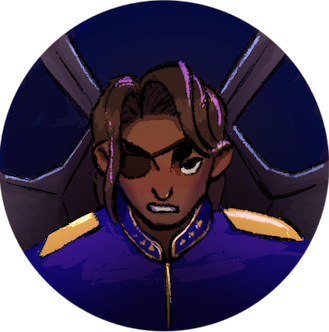
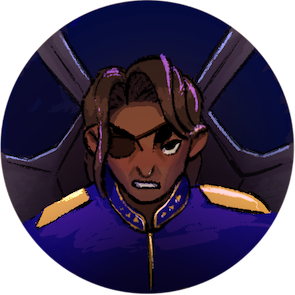
Added Skipp camera to HUD, added light flash effect to yasmins hud

diff --git a/hud.js b/hud.js
@@ -1,14 +1,20 @@
 
 let spriteHudRight, spriteHudLeft;
 let spriteYasminNeutral, spriteYasminAngry, spriteYasminHappy;
+let spriteSkippNeutral, spriteSkippAngry, spriteSkippHappy;
 
 function loadHUD(){
 
     spriteHudLeft = loadImage('assets/hud_left.png');
     spriteHudRight = loadImage('assets/hud_right.png');
+
     spriteYasminNeutral = loadImage('assets/hud_yasmin_neutral.png');
     spriteYasminAngry = loadImage('assets/hud_yasmin_angry.png');
     spriteYasminHappy = loadImage('assets/hud_yasmin_happy.png');
+
+    spriteSkippNeutral = loadImage('assets/hud_skipp_neutral.png');
+    spriteSkippHappy = loadImage('assets/hud_skipp_happy.png');
+    spriteSkippAngry = loadImage('assets/hud_skipp_angry.png');
 
 }
 
@@ -25,13 +31,30 @@ function drawHUD(ship){
     circle(155, 900-144, 204);
 
     // Draw character camera
-    if (ship.isCrashing > 0){
-        image(spriteYasminAngry, 155, 900-144, 204, 204);
-    }else if (ship.ultimate > 1){
-        image(spriteYasminHappy, 155, 900-144, 204, 204);
-    }else{
-        image(spriteYasminNeutral, 155, 900-144, 204, 204);
+    if (ship.character == 0){
+        if (ship.isCrashing > 0){
+            image(spriteSkippAngry, 155, 900-144, 204, 204);
+        }else if (ship.ultimate > 1){
+            image(spriteSkippHappy, 155, 900-144, 204, 204);
+        }else{
+            image(spriteSkippNeutral, 155, 900-144, 204, 204);
+        }
+    }else if (ship.character == 1){
+    }else if (ship.character == 2){
+        if (ship.isCrashing > 0){
+            image(spriteYasminAngry, 155, 900-144, 204, 204);
+        }else if (ship.ultimate > 1){
+            image(spriteYasminHappy, 155, 900-144, 204, 204);
+            // Yasmin is lit up by ultimate effect
+            if (frameCount%5 == 0){
+                fill(180, 255, 255, 30);
+                circle(155, 900-144, 204);
+            }
+        }else{
+            image(spriteYasminNeutral, 155, 900-144, 204, 204);
+        }
     }
+    
     
 
     // Draw the HUD outlines
